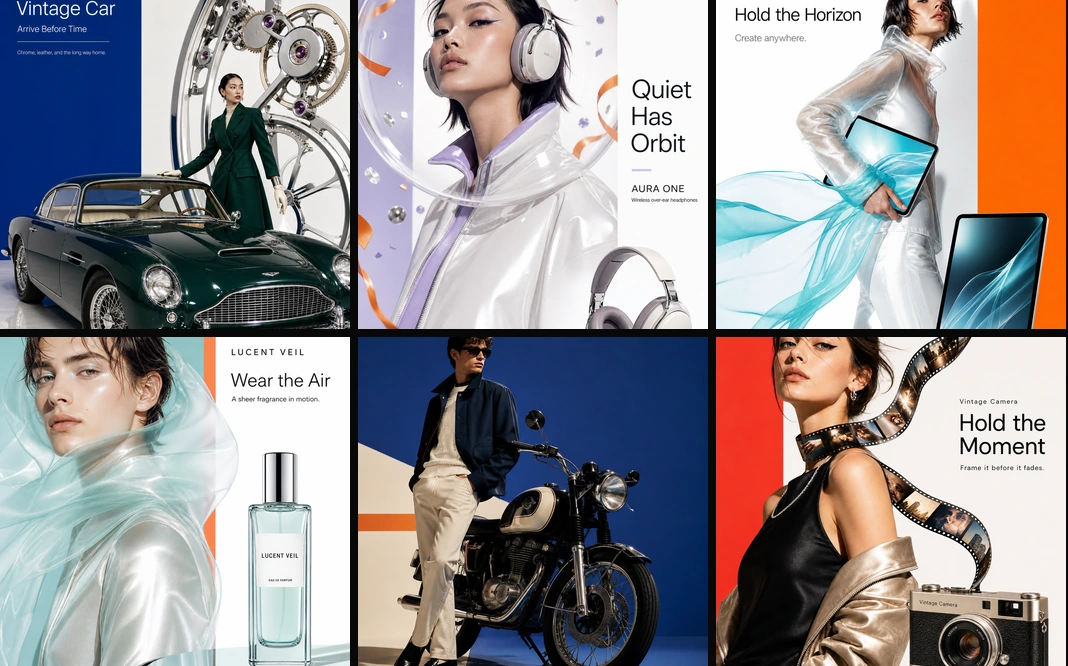
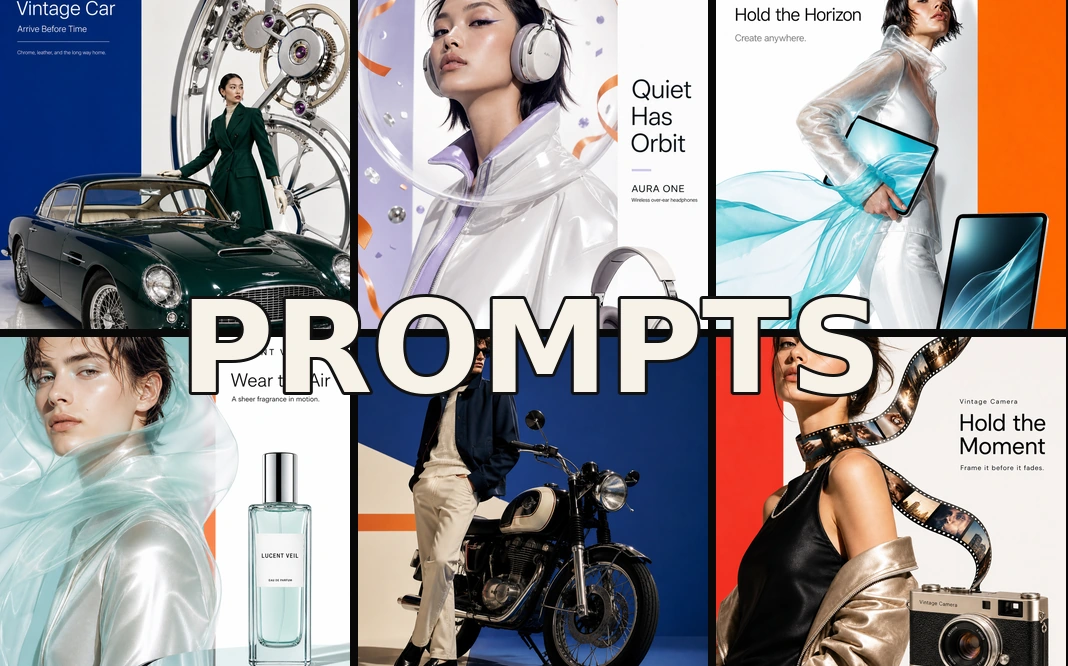
Refine Vintage 2000 carousel overlays

Changed region(s): [[0.1545, 0.4204, 0.8343, 0.6006]]

diff --git a/vintage-2000-campaigns/index.html b/vintage-2000-campaigns/index.html
@@ -6,7 +6,7 @@
   <meta name="description" content="A reusable Vintage 2000 campaign prompt. Enter one simple product or concept and build a finished editorial advertising image.">
   <meta property="og:title" content="Vintage 2000 Creative Campaigns | AI-Verse Filmmakers">
   <meta property="og:description" content="One simple product input. One high-end late-1990s and early-2000s campaign concept.">
-  <meta property="og:image" content="https://aiverse-filmmakers.github.io/hub/vintage-2000-campaigns/assets/00-collage-cover.webp?v=1">
+  <meta property="og:image" content="https://aiverse-filmmakers.github.io/hub/vintage-2000-campaigns/assets/00-collage-cover.webp?v=overlay2">
   <meta property="og:image:alt" content="Six Vintage 2000 editorial product campaign frames arranged as a collage">
   <meta name="theme-color" id="themeColor" content="#000000">
   <title>Vintage 2000 Creative Campaigns | AI-Verse Filmmakers</title>
@@ -156,7 +156,7 @@
           <p>Turn a simple product or concept into a finished late-1990s and early-2000s fashion-led consumer-technology campaign, with a clear metaphor, hero presentation and restrained typography.</p>
         </div>
         <figure class="hero-media">
-          <img src="assets/00-collage-cover.webp?v=1" width="1068" height="666" alt="Six Vintage 2000 editorial product campaign frames arranged as a collage">
+          <img src="assets/00-collage-cover.webp?v=overlay2" width="1068" height="666" alt="Six Vintage 2000 editorial product campaign frames arranged as a collage">
           <figcaption class="hero-note">A simple input becomes a complete, concept-led campaign image.</figcaption>
         </figure>
       </div>
